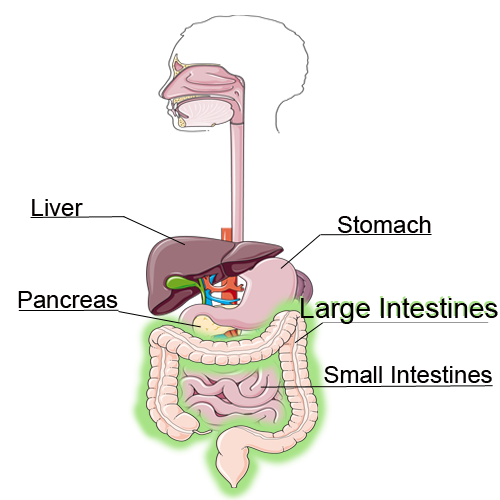
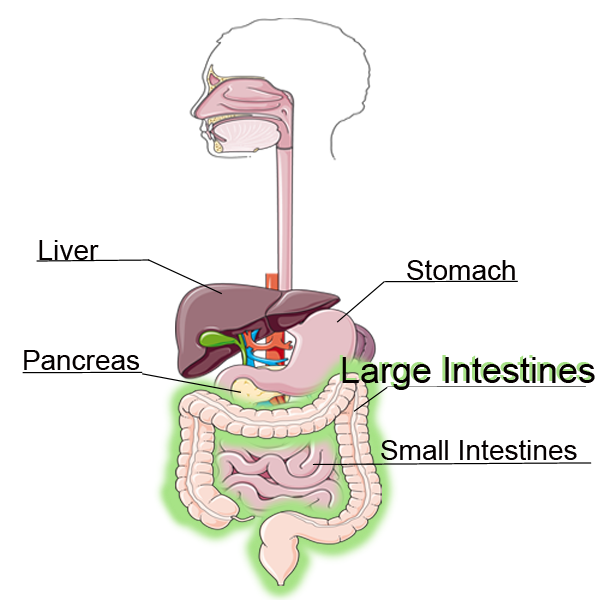
added main menu/home and made menu highlight organs when mouse goes over the organ name in the picture.  started the game.  images all added... working on drag and drop

diff --git a/src/components/Content/Content.js b/src/components/Content/Content.js
@@ -1,25 +1,75 @@
 import React from 'react';
 import Audio from './Audio/Audio';
 import Lesson from './Lesson/Lesson';
+import Game from './Game/Game';
 import Info from './Info/Info';
 import ContentNav from './ContentNav/ContentNav';
 import './Content.css';
 import mainmenu from './Images/mainmenu.png';
+import mmhlgintestines from './Images/mmhlargeintestines.png';
+import mmhliver from './Images/mmhliver.png';
+import mmhpancreas from './Images/mmhpancreas.png';
+import mmhsmintestines from './Images/mmhsmallintestines.png';
+import mmhstomach from './Images/mmhstomach.png';
 
-const Content = ({userInfo, page}) => {
+const Content = ({userInfo, onPageChange, page, homePic, onHighlight, showCoords}) => {
 /** * need to make so quiz shows when quiz clicked on (need to make quiz component)
  * also want to show quiz result if taken quiz - highlight content that they need to learn better
  * need to organize content better
-*/
-switch(page){
-  case 'Home':
-      return (<div className='pa2 f4 home'> 
-      <img className='menu'style={{width:'100%', height:'auto' }} alt='Digestive System' src={mainmenu}/> </div>);
-  case 'Stomach':
-  case 'Liver':
-  case 'Pancreas':
-  case 'Small Intestines':
-  case 'Large Intestines':
+ **/
+
+  function homeMenu(){
+    switch (homePic) {
+      case 'home':
+        return (  
+          <img  id='menu' className='menu ba'style={{width:'100%', height:'auto' }} onMouseDown={showCoords} alt='Digestive System' src={mainmenu} useMap="#Map"/> 
+        );
+      case 'liver':
+        return (
+          <img  id='menu' className='menu'style={{width:'100%', height:'auto' }} alt='Digestive System' src={mmhliver} useMap="#Map"/> 
+        );
+      case 'pancreas':
+          return (
+            <img  id='menu' className='menu'style={{width:'100%', height:'auto' }} alt='Digestive System' src={mmhpancreas} useMap="#Map"/> 
+          );
+      case 'stomach':
+        return (
+          <img  id='menu' className='menu'style={{width:'100%', height:'auto' }} alt='Digestive System' src={mmhstomach} useMap="#Map"/> 
+        );
+      case 'smintestines':
+          return (
+            <img  id='menu' className='menu'style={{width:'100%', height:'auto' }} alt='Digestive System' src={mmhsmintestines} useMap="#Map"/> 
+          );  
+      case 'lgintestines':
+          return (
+            <img  id='menu' className='menu'style={{width:'100%', height:'auto' }} alt='Digestive System' src={mmhlgintestines} useMap="#Map"/> 
+          );  
+      default:
+        return (
+          <div> Mainmenu is not working.  There is an error. </div>
+        )
+    }
+  }
+
+  switch(page){
+    case 'Home':
+      return (
+        <div className='pa2 f4 home'> 
+          {homeMenu()}
+          <map name="Map" id="Map">
+            <area shape="rect" coords="417,261,590,316" onClick={()=>onPageChange('Stomach')} alt="Stomach" onMouseOver= {()=> onHighlight('stomach')} onMouseOut={()=>onHighlight('home')}/>
+            <area shape="rect" coords="18,366,164,404" onClick={()=>onPageChange('Pancreas')} alt="Pancreas" onMouseOver={()=>onHighlight('pancreas')} onMouseOut={()=>onHighlight('home')}/>
+            <area shape="rect" coords="412,457,684,507" onClick={()=>onPageChange('Small Intestines')} alt="Small Intestines" onMouseOver= {()=>onHighlight('smintestines')} onMouseOut={()=>onHighlight('home')}/>
+            <area shape="rect" coords="27,223,115,297" onClick={()=>onPageChange('Liver')} alt="Liver" onMouseOver={()=>onHighlight('liver')} onMouseOut={()=>onHighlight('home')} />
+            <area shape="rect" coords="412,379,684,423" onClick={()=>onPageChange('Large Intestines')} alt="Large Intestines" onMouseOver={()=>onHighlight('lgintestines')} onMouseOut={()=>onHighlight('home')} />
+          </map>
+        </div>
+      );
+    case 'Stomach':
+    case 'Liver':
+    case 'Pancreas':
+    case 'Small Intestines':
+    case 'Large Intestines':
       return (
         <div className='pa2 fr  mr3'>
           <div className='flex items-center justify-between'>
@@ -27,22 +77,27 @@ switch(page){
             <Audio className='w-20'/>
           </div>
           <ContentNav className='w-80'/> 
-        </div>);
-  case 'Game':
-      return (<div className='pa2 fr  mr3'>Game goes here</div>);
-  case 'Help':
-  case 'Site Map':
-  case 'Credits':
+        </div>
+      );
+    case 'Game':
+      return (
+        <div className='pa2 fr  mr3'>
+          <Game className='' page={page}/> 
+        </div>
+      );
+    case 'Help':
+    case 'Site Map':
+    case 'Credits':
       return (
         <div className='pa2 fr  mr3'>
           <Info className='' page={page}/> 
         </div>
-        );
-  default:
+      );
+    default:
       return (
         <div className='pa2 f4'> Missing Content </div>
-        );
-}
+      );
+  }
    
 }
 

diff --git a/src/App.js b/src/App.js
@@ -13,37 +13,54 @@ class App extends Component {
   constructor () {
 		super()
 		this.state={
-			page: 'Liver',
-      signedIn: true,  
+			page: "Home", 
+      homePic: "home",
+      highlighted: false,
+      signedIn: true
     }
   }
-  
+
+showCoords = (Event) => {
+    var y = Event.screenY;
+    var x = Event.screenX;
+    console.log ("X coords: " + x + ", Y coords: " + y);
+}
+
 onPageChange = (page) => {
-  if (page === 'sign out') {
-    this.setState({signedIn: false})
-  } else  {
-    this.setState({signedIn: true})
-  }
- // if (signedIn===true){
+  // if (this.state.page === 'sign out') {
+  //   this.setState({signedIn: false})
+  // } else  {
+  //   this.setState({signedIn: true})
+  // }
+  if (this.state.signedIn===true){
     this.setState({page: page});
- // }
-  
-  
+    this.setState.homePic='home'
+  }
+}
+
+onHighlight = (homePic) => {
+ if (this.state.highlighted === false) {
+    this.setState({homePic:homePic});
+    this.setState({highlighted:true});
+   } else  {
+     this.setState({homePic: 'home'});
+     this.setState({highlighted:false});
+   }
 }
 
   render() {
-    const {signedIn, page}= this.state;
+    const {signedIn, page, homePic, onPageChange}= this.state;
     if (signedIn===true){
        return (
-        <div className="App">
+        <div className="App" >
           <div className='flex items-center justify-between'>
             <Logo />
             <Title page={page}/>
-            <Navigation signedIn={signedIn} onPageChange={this.onPageChange}/>
+            <Navigation signedIn={signedIn} onPageChange={onPageChange}/>
           </div>
           <div className='mainBody'>
             <Menu  signedIn={signedIn} onPageChange={this.onPageChange} page={page}/>
-            <Content  userInfo={userInfo} page={page}/>
+            <Content showCoords={this.showCoords} userInfo={userInfo} onPageChange={this.onPageChange} page={page}  homePic={homePic} onHighlight={this.onHighlight}/>
           </div>           
         </div>
       );

diff --git a/src/components/Content/Game/Game.js b/src/components/Content/Game/Game.js
@@ -1,0 +1,38 @@
+import React from 'react';
+import Audio from '../Audio/Audio';
+//import {GameInfo} from '../../../data.js';
+import picLiver from "../Images/Liver.png";
+import picPancreas from "../Images/pancreas.png";
+import picStomach from "../Images/stomach.png";
+import picSmIntestines from "../Images/S-intestine.png";
+import picLgIntestines from "../Images/LGintestines.png";
+import picBucket from "../Images/bucket.png";
+import './Game.css';
+
+
+const Game = () => {
+    return(
+        <div className='flex items-center justify-between'>
+            <div className='w-60'>
+                <div className='flex'>
+                    <Audio />
+                    <div >
+                        question
+                    </div> 
+                </div>
+               <img className='pa2'   src={(picBucket)} alt='bucket' />
+            </div>
+            
+            <div className='w-40 game' >
+                <img className='smintestines' src={(picSmIntestines)} alt='Small Intestines' />
+                <img className='pancreas' src={(picPancreas)} alt='Pancreas' />
+                <img className='stomach' src={(picStomach)} alt='Stomach' />
+                <img className='lgintestines' src={(picLgIntestines)} alt='Large Intestines' />
+                <img className='liver' src={(picLiver)} alt='Liver' />
+            </div>
+        </div>
+    )
+    
+}
+  
+  export default Game;

diff --git a/src/components/Content/Game/Game.css b/src/components/Content/Game/Game.css
@@ -1,0 +1,43 @@
+.game {
+    background-image: url('../Images/body.png');
+    background-repeat: no-repeat;
+    background-size: stretch;
+    background-position: center center;
+    height: 550px;
+    width: auto;
+}
+.liver{
+    position: relative;
+    left:-143px;
+    top:10px;
+    height: 100px;
+    width: 150px;
+}
+.pancreas{
+    position: relative;
+    left:-9px;
+    top: 262px;
+    height: 69px;
+    width: 130px;
+}
+.stomach{
+    position: relative;
+    left:-160px;
+    top: 260px;
+    height: 140px;
+    width: 155px;
+}
+.smintestines{
+    position: relative;
+    left:128px;
+    top: 358px;
+    height: 130px;
+    width: 160px;
+}
+.lgintestines{
+    position: relative;
+    left:50px;
+    top: 210px;
+    height: 200px;
+    width: 200px;
+}

diff --git a/src/data.js b/src/data.js
@@ -259,7 +259,9 @@ export const infoInfo ={
             {link:'https://publicdomainvectors.org/en/free-clipart/Young-female-doctor/52241.html',     
             picName:'"Young-female-doctor"'},
             {link:'https://publicdomainvectors.org/en/free-clipart/Human-body-color-silhouette/83431.html',
-            picName:'"Human body color silhouette"(logo)'}
+            picName:'"Human body color silhouette"(logo)'},
+            {link:'https://pixabay.com/vectors/bucket-container-pail-tool-vessel-2027031/',
+            picName:'"bucket"'}
             ],
         creativeCommons: [
             {link:'https://smart.servier.com/smart_image/complete-digestive-apparatus/',

diff --git a/src/components/Content/Content.css b/src/components/Content/Content.css
@@ -2,7 +2,7 @@
     
 }
 .menu {
-  max-height: 450px;
+  
   min-height: 250px;
   width: auto;
 }
